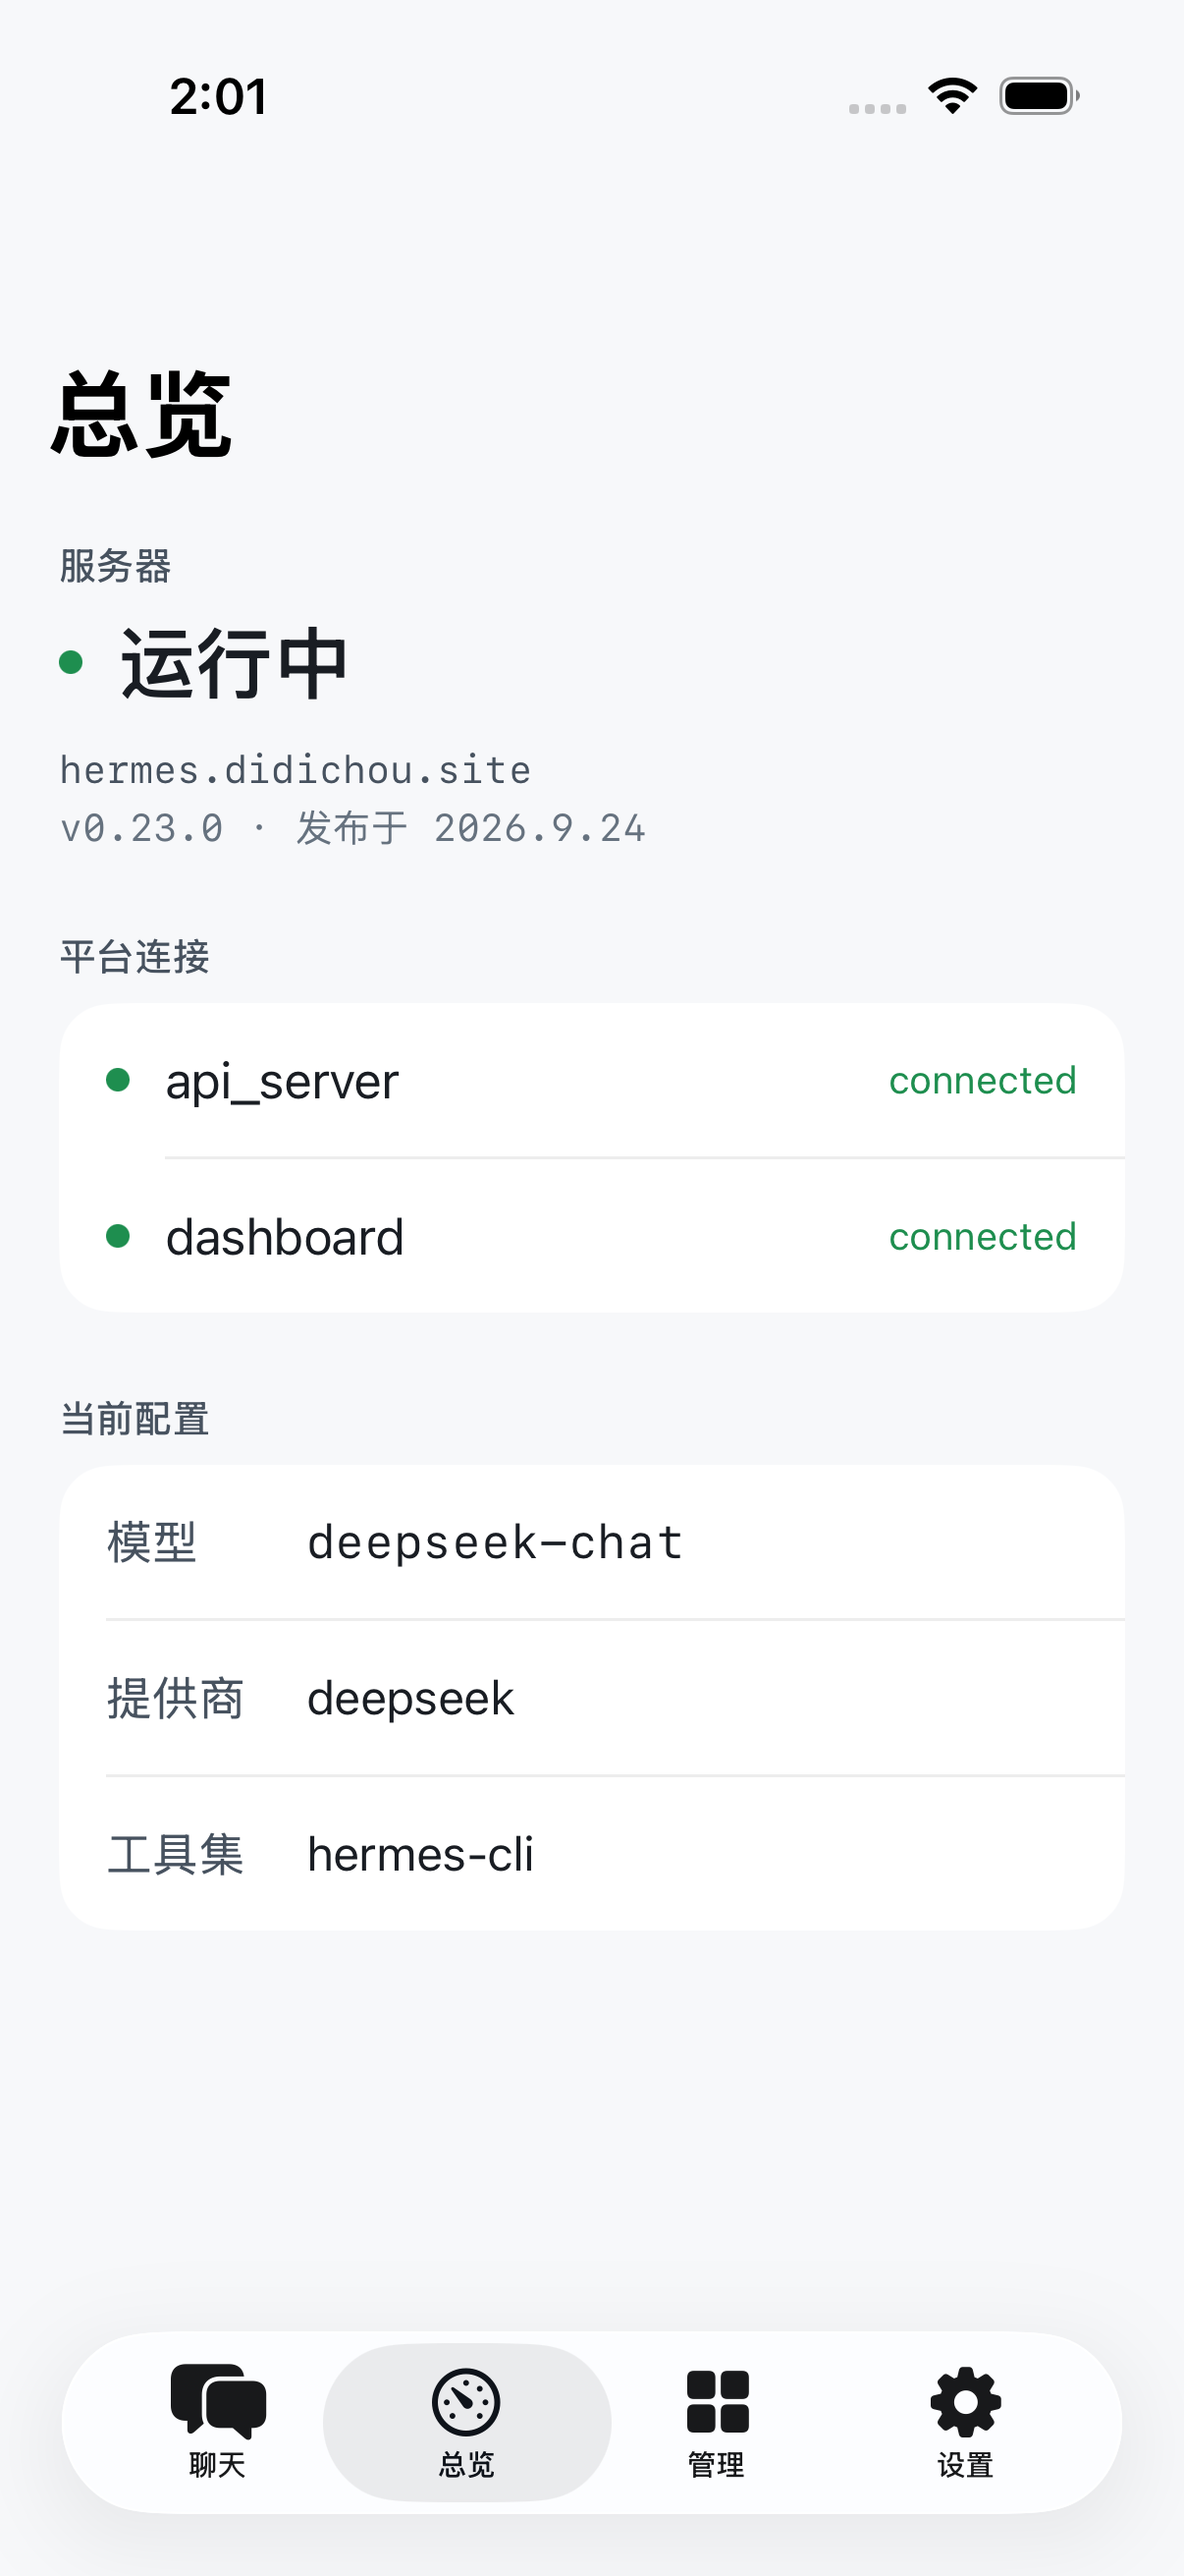
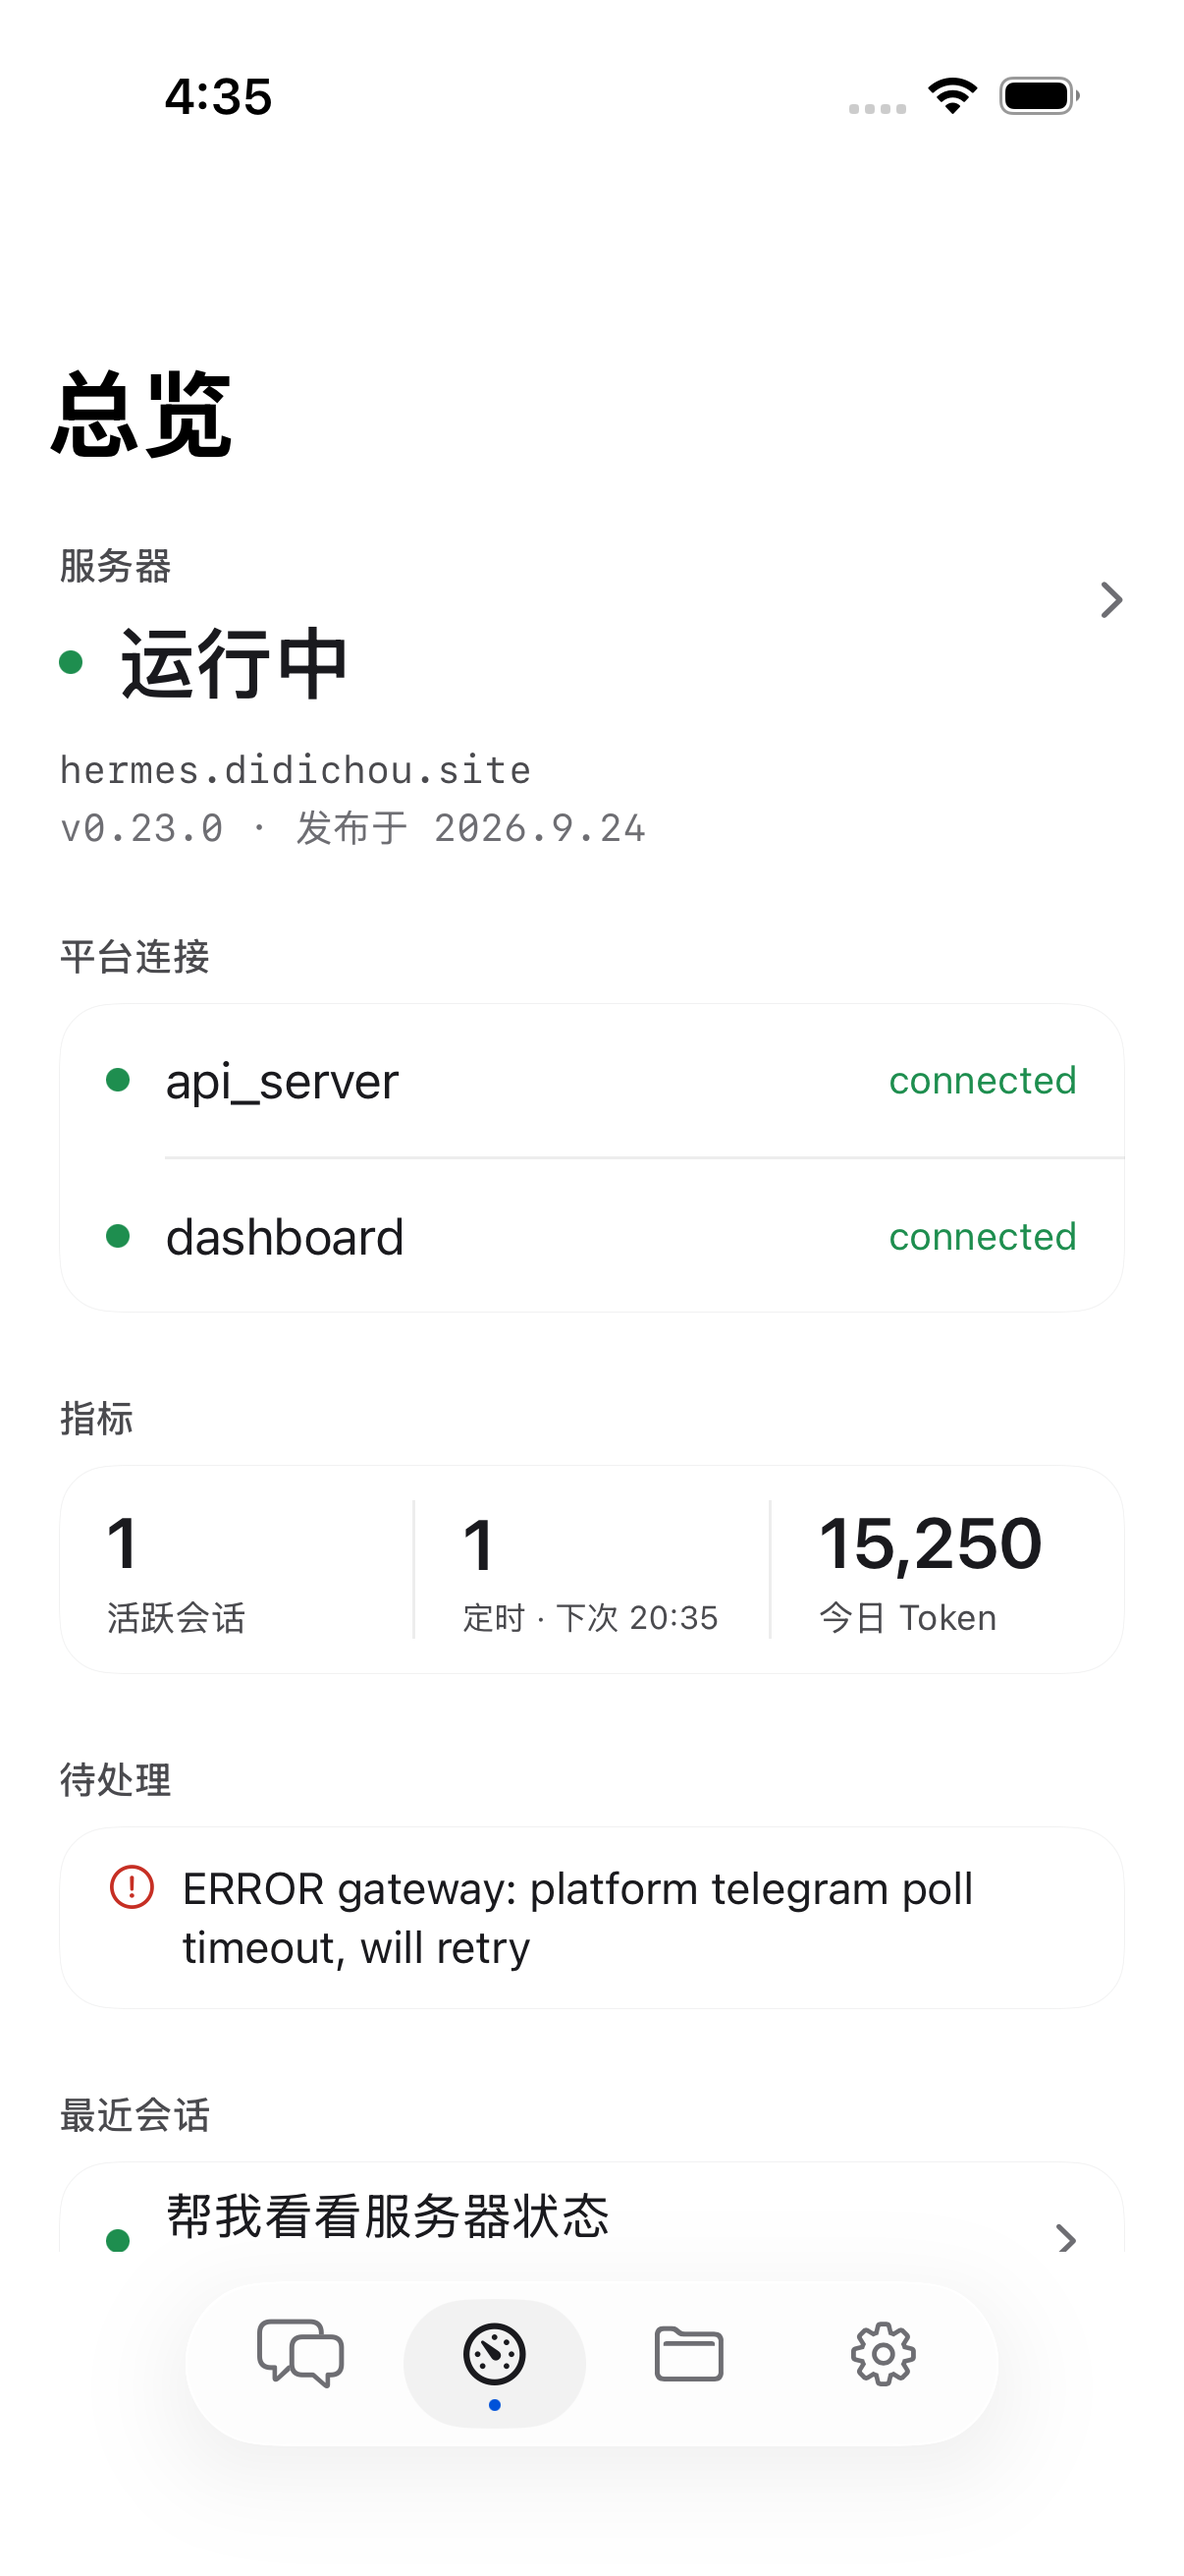
归档：0.2.3 终版六张截图入 docs/shots（05 由 manage/agent 改 files）、DESIGN-V2 补 §8–§11 四版追记

diff --git a/docs/DESIGN-V2.md b/docs/DESIGN-V2.md
@@ -459,3 +459,58 @@ v0.23.0，inkSecondary 等宽）。一眼先读状态，再读细节。
 4. **截图环常驻**：screenshots.yml 保留（workflow_dispatch
    ＋ feat/shots-013 push 触发），演示模式与种子数据已成
    常驻夹具，后续版本可直接复跑出图验收。
+
+## 8 · 0.2.0 追记（2026-11-08，IA v3 落地＋真视觉审查）
+
+- IA v3 全量落地：底栏四格（聊天/总览/智能体/设置）、智能体四模块
+  （记忆/技能/定时/服务端会话，二级页全功能）、设置四组、总览五段。
+- 视觉审查（对 Muse 观感标杆，六张逐张）：01 圆点占位验证正常；
+  02/03/05 通过；04 修两处（指标中格时间截断→只显示时间；待办面
+  日志行 ISO 时间戳前缀→展示清洗）；06 主机名等宽截断列入 0.2.1 追完。
+- 口径出入登记：总览快捷动作简报写「新建会话、看日志」，IA-V3 §5.4
+  定版为「重启网关（二次确认）、新建定时任务、看日志」，按 IA-V3 执行。
+- ChatView 抽屉「服务端会话」过期占位文案改过一处（仅文案）。
+
+## 9 · 0.2.1 追记（2026-11-08，用户真机 7 条反馈）
+
+- 智能体并入设置（仿 Muse 分组目录）、底栏第三格改文件（目录
+  浏览＋影音网格）、发送栏＋附件与 34pt 发送键、五款主题（默认
+  腾讯蓝——色值错误见 0.2.2 纠正）、键盘交互收起、侧边栏重做、
+  状态屏（活动/定时/系统；浏览器任务与审核记录经 openapi＋生产
+  实查确认无接口，不做）。
+- 审查三轮修正：抽屉消息数 Optional 直印、设置主机名先等宽后改
+  两行式根治；终版双绿 42496047612/42496032826，38 单测。
+- 接口核查定案：文件与系统接口以 openapi＋生产 GET 实查为据；
+  文件直发契约未验证（验证需生产写请求，红线禁止），只做选择
+  ＋待发列表＋发送时明示。
+
+## 10 · 0.2.2 追记（2026-11-08/09，调研先行＋对照 Muse＋动效专项）
+
+- 第 0 步沉淀 docs/DESIGN-V3-NOTES.md：腾讯蓝核值 #0052D9
+  （TDesign 官方 brand7，0.2.1 的 #00A4FF 作废）、五主题逐个
+  注明出处、抽屉/发送栏成熟参考规格、礼记设计沉淀摘录。
+- 施工：主题纠正、抽屉钮 36pt 圆形底＋抽屉规格对齐、发送栏
+  两键同径 36pt、文件页改交付物库（聚合产出根、来源到目录级、
+  生产产出目录实查全空）、模型与提供商全量获取制（顶栏可点
+  切换、删手输与添加表单）。
+- 对照 Muse 五条（NOTES §6）：底栏改自绘贴底栏（线条图标/
+  墨色选中/4pt 微点/抽屉时隐藏）、图标线条化、抽屉密度收紧＋
+  选中浅灰＋搜索浅灰胶囊、总览指标 24pt 主角化、文件影音为先。
+- 动效专项（NOTES §7 登记）：抽屉跟手拖拽＋弹簧归位、
+  PressableButtonStyle 按压态、触觉五点、回到底部钮、上翻不强拉。
+- 终版双绿：构建 42499114561、截图 42499076636，38 单测全过。
+
+## 11 · 0.2.3 追记（2026-11-09，Liquid Glass 换语言）
+
+- 第 0 步定版 docs/DESIGN-V4.md：逐条引用 liquid-glass /
+  swiftui-design / impeccable / hallmark 条款出定版后才写码。
+- 落地：底色全系去蓝灰（pageBG 纯白、fieldFill 中性灰、ink 中性
+  化、odGroup 发丝线成面）；底栏玻璃悬浮胶囊仅图标（选中浅灰
+  胶囊＋微点，抽屉/键盘时隐藏）；顶栏角钮玻璃圆；发送舱玻璃
+  胶囊（发送键实色保对比，依 LG 对比条款）；聊天空状态收敛。
+- 修正一轮：悬浮栏下沿预留改 frame 级 padding（safeAreaInset
+  对 GeometryReader 页不生效，发送舱曾与底栏重叠）、顶栏钮改
+  glassEffect 36pt 真圆（.buttonStyle(.glass) 会拉成长胶囊）。
+- 终版双绿：构建 42500383930、截图 42500354635；六张按
+  DESIGN-V4 §7 清单逐项审过（玻璃只在 chrome、底栏无字、
+  底色无蓝灰、图标线条统一）。
